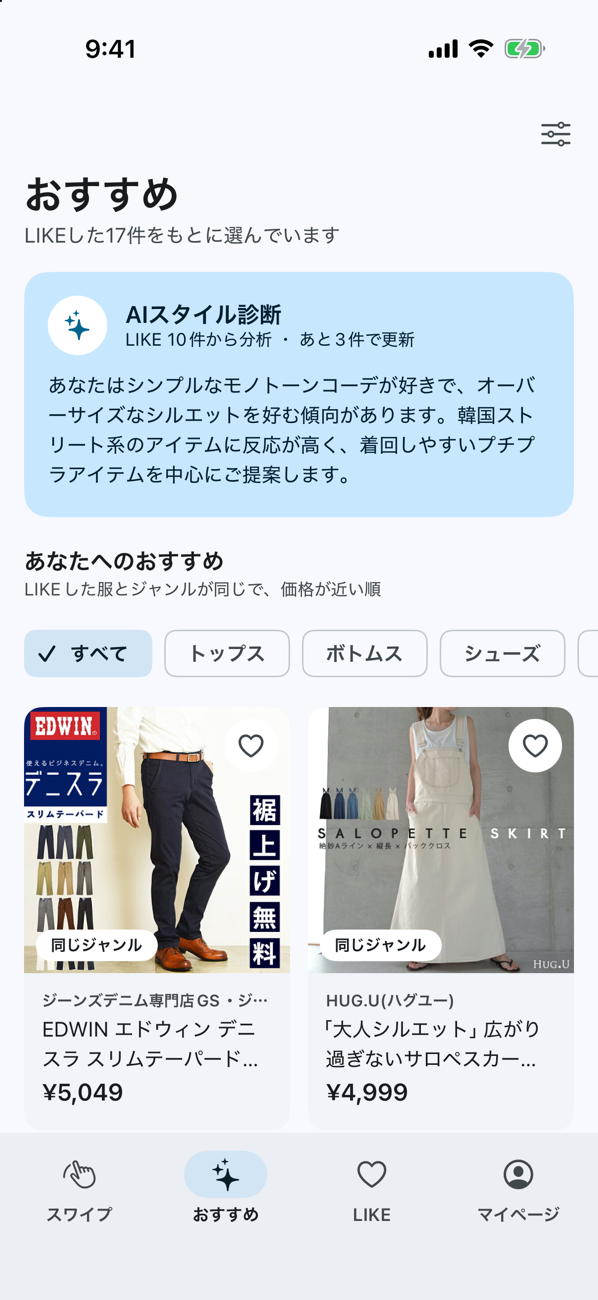
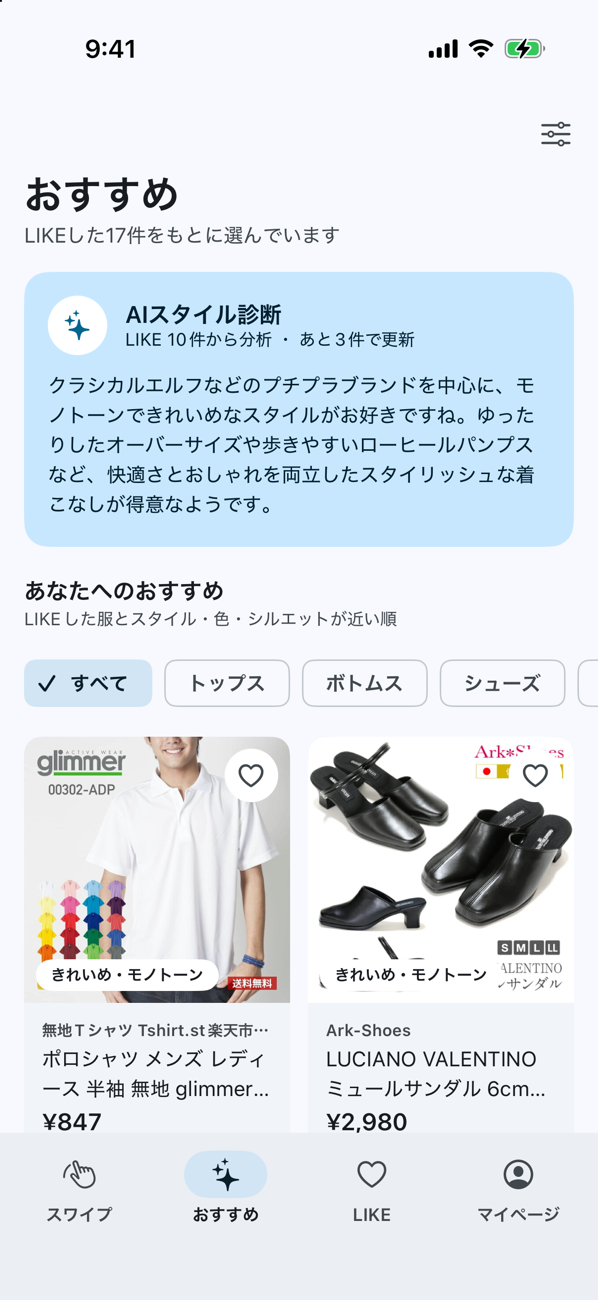
docs: README・API 仕様書・スクリーンショットを今の実装に合わせて更新

Changed region(s): [[0.0301, 0.2769, 0.9933, 0.8923], [0.8729, 0.0308, 0.903, 0.0615]]

diff --git a/docs/api_spec.md b/docs/api_spec.md
@@ -1,214 +1,244 @@
-# API仕様書 — スワイプ型AIファッションレコメンド（PoC）
+# API 仕様
 
-担当C（Swift）向けのエンドポイント一覧です。
+Swipe Fashion のサーバー（Flask）の API です。
 
-## ベースURL
+## ベース URL
 
 ```
-http://localhost:5000
+http://localhost:5001
 ```
 
-> **iOS ATS注意**: Swiftで `http://localhost` を叩く場合、`Info.plist` に以下を追加してください。
->
-> ```xml
-> <key>NSAppTransportSecurity</key>
-> <dict>
->   <key>NSAllowsLocalNetworking</key>
->   <true/>
-> </dict>
-> ```
+ポートは `.env` の `PORT` で変えられます。
 
 ## 認証
 
-全エンドポイント（認証系を除く）は `Authorization: Bearer <token>` ヘッダが必要です。
+`/api/auth/*` と `/health` 以外は、`Authorization: Bearer <token>` ヘッダが必要です。
+トークンがない・正しくないときは `401` を返します。
+
+```json
+{ "error": "Unauthorized" }
+```
+
+エラーのときは、どのエンドポイントも `{ "error": "<理由>" }` の形で返します。
+
+## 商品の形
+
+商品は、楽天市場 商品検索 API のレスポンスと同じ項目名で返します（iOS アプリの `Item` がそのまま読める形）。
+
+```json
+{
+  "itemCode": "shop:10000123",
+  "itemName": "オーバーサイズ Tシャツ メンズ 半袖 ...",
+  "catchcopy": "送料無料 ...",
+  "itemPrice": 2980,
+  "shopName": "〇〇ストア",
+  "reviewAverage": 4.5,
+  "reviewCount": 120,
+  "itemUrl": "https://item.rakuten.co.jp/...",
+  "mediumImageUrls": [{ "imageUrl": "https://thumbnail.image.rakuten.co.jp/...?_ex=128x128" }],
+  "genreId": 555086
+}
+```
 
 ---
 
-## 1. ユーザー登録
+## 認証
 
-**POST** `/api/auth/register`
+### POST `/api/auth/device`
 
-### リクエスト (JSON)
+端末ごとの ID でログインします。初めての ID ならユーザーを作ります（アプリはこれを使い、ログイン画面はありません）。
 
-| フィールド | 型 | 必須 | 説明 |
-|---|---|---|---|
-| email | string | ✓ | メールアドレス |
-| password | string | ✓ | パスワード |
-| age | int | - | 年齢 |
-| gender | string | - | 性別（例: "男性", "女性", "その他"） |
-| region | string | - | 居住地域（例: "大阪"） |
+```json
+{ "device_id": "8F3C...-UUID" }
+```
 
-### レスポンス `201`
+レスポンス `200`
 
 ```json
 { "user_id": 1, "token": "abc123..." }
 ```
 
-### エラー
+| コード | 内容 |
+| --- | --- |
+| 400 | `device_id` がない |
+
+### POST `/api/auth/register`
+
+メールアドレスで登録します（現在のアプリでは使っていません）。
+
+| フィールド | 型 | 必須 | 説明 |
+| --- | --- | --- | --- |
+| email | string | ✓ | メールアドレス |
+| password | string | ✓ | パスワード |
+| age | int | - | 年齢 |
+| gender | string | - | 性別（例: "男性", "女性", "その他"） |
+| region | string | - | 住んでいる地域（例: "大阪"） |
+
+レスポンス `201`: `{ "user_id": 1, "token": "abc123..." }`
 
 | コード | 内容 |
-|---|---|
-| 400 | email / password が未入力 |
-| 409 | 既に登録済みのメール |
+| --- | --- |
+| 400 | email / password がない |
+| 409 | 登録済みのメールアドレス |
 
----
-
-## 2. ログイン
-
-**POST** `/api/auth/login`
-
-### リクエスト (JSON)
+### POST `/api/auth/login`
 
 ```json
 { "email": "user@example.com", "password": "pass1234" }
 ```
 
-### レスポンス `200`
+レスポンス `200`: `{ "user_id": 1, "token": "abc123..." }`
 
-```json
-{ "user_id": 1, "token": "abc123..." }
-```
+| コード | 内容 |
+| --- | --- |
+| 400 | email / password がない |
+| 401 | メールアドレスかパスワードが違う |
 
 ---
 
-## 3. スワイプ用商品取得
+## 商品
 
-**GET** `/api/items/next?limit=10`
+### GET `/api/items/next?limit=10`
 
-未評価の商品をランダムで返します。
+まだ LIKE / SKIP していない商品を、ランダムに返します（`limit` は最大50）。
 
-### レスポンス `200`
+レスポンス `200`: 商品の配列
+
+### GET `/api/items/{item_code}`
+
+商品1件を返します。
+
+| コード | 内容 |
+| --- | --- |
+| 404 | 商品がない |
+
+---
+
+## LIKE / SKIP
+
+### POST `/api/actions`
+
+```json
+{ "item_code": "shop:10000123", "action": "LIKE" }
+```
+
+`action` は `"LIKE"` か `"SKIP"`。同じ商品に同じ操作をもう一度送っても、二重には記録しません。
+LIKE が10件たまるごとに、このリクエストの中で AI スタイル診断の説明文を作り直します。
+
+レスポンス `200`
+
+```json
+{ "ok": true, "already_recorded": false, "taste_available": false }
+```
+
+| フィールド | 内容 |
+| --- | --- |
+| already_recorded | すでに記録済みだったか |
+| taste_available | 説明文ができているか |
+
+| コード | 内容 |
+| --- | --- |
+| 400 | `item_code` か `action` が正しくない |
+| 404 | 商品がない |
+
+---
+
+## おすすめ
+
+### GET `/api/recommend?limit=20&scope=app`
+
+LIKE / SKIP から作った好みのベクトルと、各商品の22次元タグベクトルのコサイン類似度で、近い順に返します。
+LIKE / SKIP 済みの商品は含めません。類似度が同じ商品は、レビューの多い順に並べます。
+
+| クエリ | 既定 | 内容 |
+| --- | --- | --- |
+| limit | 20 | 件数（1〜100） |
+| scope | all | `app` にすると、iOS アプリに載せている商品（`DataManifest.json` に登録したファイルの商品）だけから選ぶ |
+
+アプリは `scope=app&limit=100` で取り、種別（トップス / ボトムス など）の絞り込みは端末側で行います。
+
+レスポンス `200`: 商品の項目に `score` と `reasons` を足した配列
 
 ```json
 [
   {
-    "item_id": 1,
-    "name": "オーバーサイズTシャツ(黒)",
-    "brand": "ストリートブランドA",
-    "price": 2800,
-    "image_url": "https://...",
-    "external_url": "https://...",
-    "tags": [
-      { "category": "style", "value": "ストリート" },
-      { "category": "color", "value": "モノトーン" }
-    ]
+    "itemCode": "shop:10000123",
+    "itemName": "...",
+    "...": "（商品の形と同じ）",
+    "score": 0.8652,
+    "reasons": ["モノトーン", "きれいめ"]
   }
 ]
 ```
 
----
+| フィールド | 内容 |
+| --- | --- |
+| score | 好みとのコサイン類似度 |
+| reasons | 好みを押し上げているタグのうち、この商品も持っているもの（効いている順に最大2つ）。価格帯は「同じ価格帯」 |
 
-## 4. LIKE / SKIP 送信
+LIKE / SKIP がまだないときは、ランダムな順で返します（`reasons` は空）。
 
-**POST** `/api/actions`
+| コード | 内容 |
+| --- | --- |
+| 400 | `limit` が整数でない |
 
-```json
-{ "item_id": 1, "action": "LIKE" }
-```
+### GET `/api/favorites`
 
-`action` は `"LIKE"` または `"SKIP"`。
+LIKE した商品を、新しい順に返します。
 
-### レスポンス `200`
-
-```json
-{ "ok": true }
-```
-
----
-
-## 5. AIおすすめ商品取得
-
-**GET** `/api/recommend`
-
-コンテンツベースフィルタリングで上位20件を返します。
-
-### レスポンス `200`
-
-```json
-[
-  {
-    "item_id": 3,
-    "name": "韓国系フーディ(グレー)",
-    "brand": "韓国ブランドC",
-    "price": 3200,
-    "image_url": "https://...",
-    "external_url": "https://...",
-    "score": 0.8742
-  }
-]
-```
+レスポンス `200`: 商品の配列
 
 ---
 
-## 6. 嗜好説明文取得
+## AI スタイル診断
 
-**GET** `/api/taste`
+### GET `/api/taste`
 
-LIKE 10件ごとに更新。LIKE未満は `description: null`。
+LLM が作った好みの説明文を返します。LIKE が10件に届くまでは `description` が `null` です。
+LLM につながらないときも `500` にはせず、保存済みの説明文（なければ `null`）を返します。
 
-### レスポンス `200`
+レスポンス `200`
 
 ```json
 {
-  "description": "あなたはモノトーンを基調としたコーデが好きで...",
-  "updated_at": "2026-05-25T10:00:00+00:00"
+  "description": "きれいめなモノトーンのアイテムを中心に…",
+  "updated_at": "2026-11-04T09:00:00+00:00"
 }
 ```
 
 ---
 
-## 7. お気に入り一覧
+## その他
 
-**GET** `/api/favorites`
+### GET `/health`
 
-LIKEした商品を新しい順で返します。
-
----
-
-## 8. 商品詳細
-
-**GET** `/api/items/{item_id}`
-
-```json
-{
-  "item_id": 1,
-  "name": "オーバーサイズTシャツ(黒)",
-  "brand": "ストリートブランドA",
-  "price": 2800,
-  "image_url": "https://...",
-  "external_url": "https://...",
-  "tags": [...]
-}
-```
+レスポンス `200`: `{ "status": "ok" }`
 
 ---
 
-## curl サンプル（疎通確認用）
+## curl で試す
 
 ```bash
-# 登録
-curl -s -X POST http://localhost:5000/api/auth/register \
-  -H "Content-Type: application/json" \
-  -d '{"email":"test@ex.com","password":"pass1234","age":22,"gender":"男性","region":"大阪"}'
+BASE=http://localhost:5001
 
-# ログイン → TOKEN取得
-TOKEN=$(curl -s -X POST http://localhost:5000/api/auth/login \
+# 端末 ID でログインしてトークンを取る
+TOKEN=$(curl -s -X POST $BASE/api/auth/device \
   -H "Content-Type: application/json" \
-  -d '{"email":"test@ex.com","password":"pass1234"}' \
+  -d '{"device_id":"curl-test"}' \
   | python3 -c "import sys,json; print(json.load(sys.stdin)['token'])")
 
-# 次商品取得
-curl -s -H "Authorization: Bearer $TOKEN" "http://localhost:5000/api/items/next?limit=5"
+# まだ評価していない商品
+curl -s -H "Authorization: Bearer $TOKEN" "$BASE/api/items/next?limit=5"
 
-# LIKE
+# LIKE（item_code は上で返ってきた itemCode）
 curl -s -X POST -H "Authorization: Bearer $TOKEN" \
   -H "Content-Type: application/json" \
-  -d '{"item_id":1,"action":"LIKE"}' \
-  http://localhost:5000/api/actions
+  -d '{"item_code":"<itemCode>","action":"LIKE"}' \
+  $BASE/api/actions
 
-# おすすめ
-curl -s -H "Authorization: Bearer $TOKEN" http://localhost:5000/api/recommend
+# おすすめ（アプリに載せている商品から）
+curl -s -H "Authorization: Bearer $TOKEN" "$BASE/api/recommend?scope=app&limit=5"
 
-# 嗜好説明（LIKE 10件後に説明文が入る）
-curl -s -H "Authorization: Bearer $TOKEN" http://localhost:5000/api/taste
+# AI スタイル診断（LIKE 10件で説明文が入る）
+curl -s -H "Authorization: Bearer $TOKEN" $BASE/api/taste
 ```
